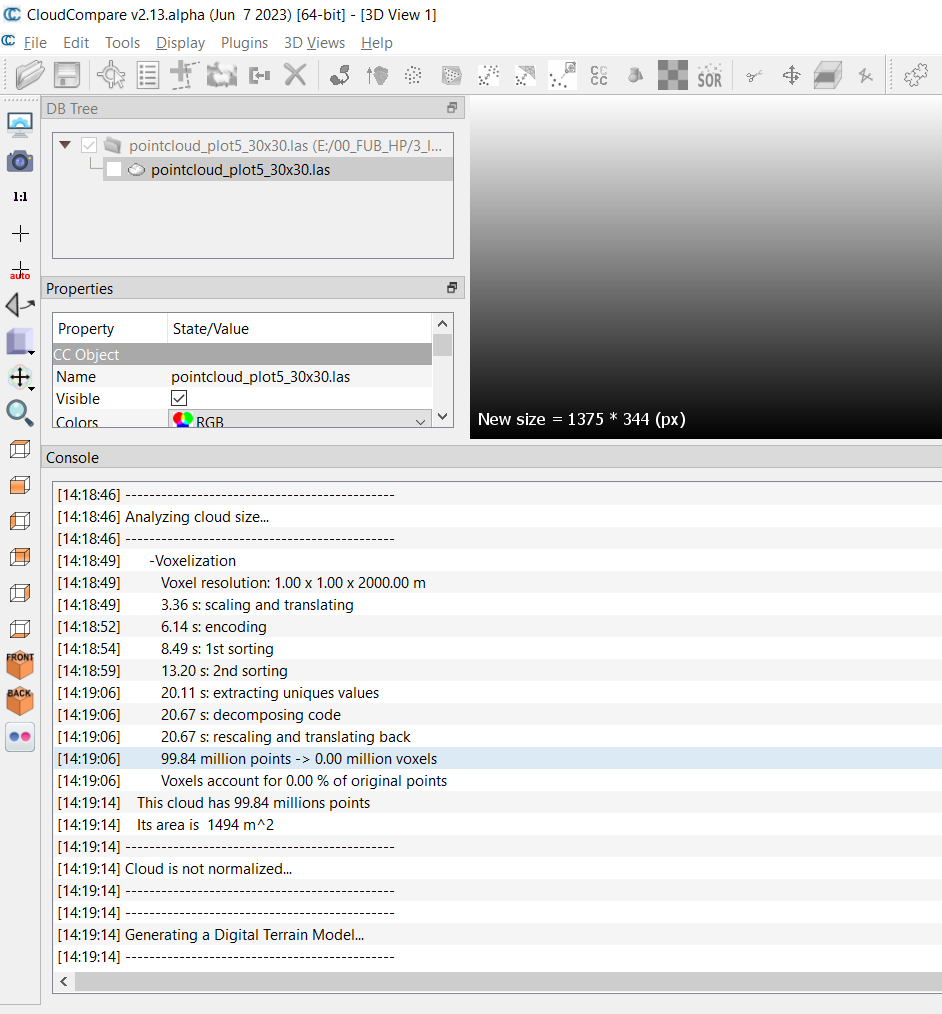
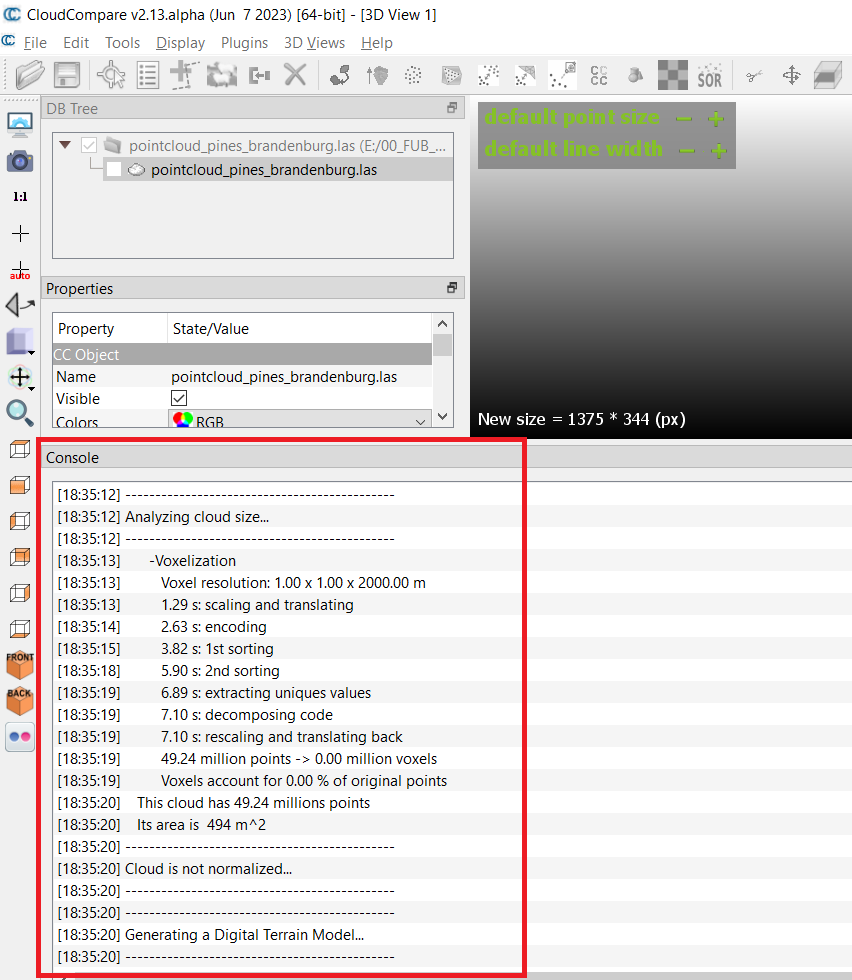
updates

Changed region(s): [[0.0, 0.0, 1.0, 1.0]]

diff --git a/1_3Dfin_cloudcompare2.md b/1_3Dfin_cloudcompare2.md
@@ -1,0 +1,158 @@
+
+# Getting started with 3D fin to extract individual tree information from terrestrial point clouds
+
+### Objectives of tutorial
+
+- to understand the basic concepts of the 3D Fin workflow
+- learn how to apply the 3D Fin software to extract individual trees from a 3D point-cloud
+- ...
+
+### Requirements to run this tutorial
+To run this tutorial you will need a version of CloudCompare with the 3D Fin plug-in installed. You can download a zip-file containing a running version for Windows here:
+
+You will furthermore need an example dataset. In our case we will use a terrestrial laserscan from a pine stand (*Pinus sylvestris*) in a forest in Brandenburg, Germany.
+
+The dataset can be downloaded here:
+
+
+
+
+### Starting 3D-Fin in CloudCompare
+
+**Download the zip-folder, unpack it onto a folder** on your computer which you are able to find again and then **run CloudCompare by double-blicking the "CloudCompare.exe"** in the main file folder.
+
+This should lead to a situation as shown in Figure 1.
+
+![Figure 1: CloudCompare with 3D-fin extension installed](Fig_01.png)
+
+Your actual view is likely to appear a bit different since you might have other and additional toolbars activated. You might actually have to press on a little arrow-button on the top right of the menu bar to be able to see the relevant icons which are marked in Figure 1.
+
+We are now ready to open our example dataset and start working with the 3D Fin plugin. To open the dataset, we select **File => Open**  (Figure 2) and then in the appearing new window browse to the ***pointcloud_plot5_30x30.las*** file, select it and press **"Open"**.
+
+![Figure 2: Open the example dataset](Fig_02.png)
+
+In the then appearing dialogue we use the standard settings to open the file. That is, in the first window we press **"Apply All"** (Figure 3) and in the second window **"Yes to All"** (Figure 4).
+
+![Figure 3: The open dataset dialogue in CloudCompare 1/2](Fig_03.png)
+![Figure 4: The open dataset dialogue in CloudCompare 22](Fig_04.png)
+
+This should result in a situation as shown in Figure 5
+
+![Figure 5: CloudCompare view after loading the example dataset](Fig_05.png)
+
+If you want to adjust some basic visualization settings of the point cloud you can get some first indications on how to achieve this in the following tutorial:
+
+[Basic CloudCompare tutorial](https://github.com/fabianfassnacht/CloudCompare_Basics_1/blob/main/1_cloud_compare_basics.md)
+
+However, given that our example dataset comes with some RGB information, the standard visualization setting should already be quite acceptable.
+
+We will now start the 3D Fin plugin by first selecting the loaded point-cloud in the DB Tree window (marked with 1 in Figure 5) and then click the drop-down menu "Plugins" and select "3D Forest Inventories" (marked with 2 in Figure 5).
+
+This will open the 3D Fin plugin and its main window as shown in Figure 6.
+
+### Running the 3D Fin workflow in the Basic mode
+
+![Figure 6: The 3D Fin user interface in CloudCompare](Fig_06.png)
+
+In the Basic Mode only a few parameters have to be defined by the user. These include:
+
+- **Normalization of the point cloud** (marked with 1 in Fig. 6): If the input dataset contains a normalized point cloud (z-values of the 3D points represent the height above ground) you can uncheck this box. If your point cloud is not normalized (z-values of your 3D points represent heights above sea-level) this box should be checked and 3D Fin will automatically calculate a digital terrain model and subtract the terrain model value from the z-value of each point.
+- **Clean noise on dtm** (marked with 2 in Fig. 6): In some point clouds (particularly those created using photogrammetric approaches) a certain level of noise can be expected. In such cases, some points may be located below the interpolated digital terrain model (DTM). By checking this box, you tell 3D Fin that it is ok to filter out such points during the calculation of the DTM.
+- **Format of output tabular data** (marked with 3 in Fig. 6): The 3D fin processing chain will create some tables including detailed information on the identified tree stems as key outputs. Here you can define whether you prefer to have these tables saved as CSV of Excel file.
+- **Strippe Upper Limit** (marked with 4 in Fig. 6): As further explained below, the first step in the 3D Fin work-flow bases on the identification of straight tree segments in the lower part of the forest stand. The idea for the two stripe parameters is to define a height range in which the trees are expected to be comparably straight and clearly visible. That is, understory elements (shrubs, herbs, grasses) should in ideal case be comparably sparse. You can define the upper and lower limit of this range depending on the situation of the understory and the trees in your forest. A graphical example is provided to further clarify the idea (see graph marked with 4a in Fig. 6)
+- **Strippe Lower Limit** (marked with 4 in Fig. 6): See Strippe Upper Limit.
+- **Pruning Intensity** (marked with 5 in Fig. 6): During this step, points that are close to the tree trunk segments but belong to other tree elements (such as branches and leaves) are iteratively deleted. Depending on how many of such other elements exist, you can adjust the numbers of iterations and thereby the intensity with which the algorithms tries to identify and drop such features.
+- **Output Directory** (marked with 6 in Fig. 6): Define the output directory to where you want to save the outputs created by the 3D Fin work-flow.
+
+We will now run the 3D Fin workflow for our dataset. For the general settings we **check** the "**Normalize Point Cloud**" box since our example dataset does not contain a normalized point cloud.
+
+Because our dataset was calculated with a terrestrial laserscanner, we do not expect a lot of noise and hence leave the "**Clean noise on dtm**" **unchecked**.
+
+As **tabular output data**, we select "**XLSX**".
+
+Exploring our dataset visually, we can that we do not have a pronounced understory and that most of the tree trunks have comparably sparse branching structures in the lower parts of the tree trunk. Since some smaller understory elements exist with a height of more or less 1 m, we can for example set the **lower and higher stripe limit to 1.5 and 4.5 m, respectively**.
+
+For the **pruning intensity** we keep the original setting of **2 iterations** which means that we expect low to intermediate branching (which matches our visual impression).
+
+We finally define an "**output directory**" and then press "**Compute**" to run the 3D Fin workflow. 
+
+You will be continuously updated on the progress in the console window at the bottom of the CloudCompare user interface (marked in Fig. 7).
+
+![Figure 7: Progress of the 3DFin work-flow in the console window](Fig_07.png)
+
+The duration to run the whole process of identifying and segmenting the tree trunks can take anything from a few seconds up to several minutes or even hours depending on the size of the applied dataset, the user-defined settings and the applied hardware. With the example dataset used in this Tutorial the processing takes approximately 10-20 min with a laptop with good (but not top-notch) performance (for example with my laptop with an i7 CPU and 16 GB RAM it takes around 14 minutes).
+
+### Understanding the 3D Fin workflow outputs
+
+Once the work-flow as terminated, you will see some new outputs in the CloudCompare DB tree window as shown in Figure 8 (marked with 1). By default, three of the in total 7 output files are visualized in the main visualization window of CloudCompare (Fig. 8 - marked with 2). These include the fitted tree circular tree rings, the diameter at breast height and the tree height.
+
+![Figure 8: Outputs of the 3DFin work-flow](Fig_08.png)
+
+In the following we will have a look at each of the outputs individually which is helpful to better understand how the 3DFin work-flow works. 
+
+The first step in work-flow is to normalize the pointcloud and derive a digital terrain model (DTM). Figure 9 shows the visualization of the DTM of the example dataset as represented by a point cloud of the ground points.
+
+![Figure 9: DTM derived in the 3DFin work-flow](Fig_9_dtm.png)
+
+In figure 10, we can see the identified tree segments from the second step of the 3DFin work-flow during which point-cloud patterns showing a vertical continuity are identified in the user-defined height range (see stripe range setting above). In our case, all of these tree segments will be displayed for the height between 1.5 m and 4.5 m.
+
+![Figure 10: Tree segments identified by the 3DFin workflow](Fig_10_stem_segments.png)
+
+As next step in the workflow an axis is fitted through each of the tree segments shown in Figure 10. These axes are then used as orientation for the circle-fitting algorithm. That is, along this axes, the algorithm will search for circular shapes, representing points reflected by the tree stem, within a circular (optionally user-defined) buffer around the axis.  This step will repeated in regular (optionally user-defined) height intervals. The axes for our example dataset are shown in Figure 11 and the respective circle fitting output is shown in Figure 12.
+
+![Figure 11: Axes fitted from the tree stem segments](Fig_11_axes.png)
+
+
+The axes (in Figure 11) are color-coded according to their tilting angle and you can see that axes that show a somewhat unexpected orientation (that is, deviating notably from the expected vertical orientation of a tree stem) are shown in red. This is not necessarily an indicator for wrongly identfied tree stems as trees sometimes are leaning but it might be a good idea to visually re-check such trees.
+
+![Figure 12: Circles fitted around the expected tree trunk as guided by the axes shown in Fig. 11](Fig_12_fitted_sections.png)
+
+Similarly, fitted circles that show unexpected dimensions (for example a notably larger radius than the circle below) are displayed in red. In this case, most of the time the problematic circles should not be considered during subsequent processing step since it is actually quite rare that a tree will increase its diameter (notably) with height. This circle fitting quality information is also stored in the tabular output data that we will discuss further below in the Tutorial.
+
+![Figure 13: Distance axes](Fig_13_distance_axis.png)
+
+In Figure 13 you can see the original point cloud using the distance to the stem axes (as shown in Figure 11) as color-coding. In this example this means that points shown in blue are very close to the stem axes while points shown in red are more distant from the stem axes. This is a quite helpful illustration to check how successful the work-flow was in correctly identifying points belonging to tree trunks. In our example, the workflow has performed very well and only a few trunks on the edge of the plot were not detected and most of these trunks seem to be incomplete due to the edge-effects in the pointcloud.
+
+In Figure 14 the height of each detected tree is displayed. The height is defined as the height of the highest non-isolated point in a circular region around the axes (Figure 11).
+
+![Figure 14: Tree height](Fig_14_height.png)
+
+Finally, in Figure 15, the diameter at breast height (DBH) of each tree is shown. The diameter at breast height is interpolated from the diameters of the fitted circles (Figure 12) above and below the height of 1.3 m for the 1.3 m height position where the DBH is typically measured in the field. In case there are no high-quality fitted circles available within a certain range above and below the 1.3 m position, the workflow will report a "non-reliable" instead of a diameter estimate.
+
+![Figure 15: Tree DBH](Fig_15_tree_locationspng.png)
+
+If you want to save the current state in Cloud Compare you have the option to save it into a "Cloud Compare Entities" binary file by selecting all the files in the DB Tree window and then select "File -> Save" (Fig. 16). Select "Cloud Compare Entities" as file format and then browse to a folder where you want to save the project and click "Save". You should now be able to re-load your current state with all files the next time you open CloudCompare by simply selecting "File -> Open".
+
+![Figure 16: Tree DBH](Fig_16_save_cc.png)
+
+
+We have now completed the basic 3DFin workflow in CloudCompare and will have a closer look at the tabular output data created by the workflow. This tabular output data is the main output which you will most likely want to use as inputs to additional processing-algorithms or as final results.
+
+### Tabular output data
+
+As first step, browse to the output folder which you defined in CloudCompare before starting the computation of the 3DFin workflow. Then open the Excel-File that was created as output of the workflow. You should see a situation as shown in Figure 17.
+
+![Figure 17: Output Excel file](Fig_17_excel1.png)
+
+As you can see there are in total 9 separate sheets (marked with 1 in Figure 17) that contain all relevant results created by the 3DFin work-flow. In the following we will briefly explain the meaning of each sheet.
+
+*Plot Metrics*
+On the first sheet called "Plot Metrics" you find the total height (TH), the diameter at breast height (DBH) as well as the x-position (X) and y-position (Y) of each tree (T) identified in the point cloud (marked with 2 and 3 in Figure 17). In our example 30 trees were identified
+
+*Diameters*
+In the diameters sheet you can find diameter of all stem section (columns) of all trees (rows). The number of stem sections varies based on the height of the trees and you will see that typically all trees will have several fields with 0 diameter in some higher stem section columns in the table.
+
+*X*
+The X sheet contains the x-coordinates of the center points of all stem sections (columns) of all trees (rows) 
+
+*Y*
+The Y sheet contains the y-coordinates of the center points of all stem sections (columns) of all trees (rows) 
+
+*Section*
+The Sections sheet contains heights of all stem section segments. These values depend on the user defined lowest section height and interval.
+
+*Quality sheets*
+The following four sheets contain information on the quality of each stem section. The first of the four quality sheets named *Q(Overall Quality 0-1)* is a binary summary of the other three quality sheet named *Q1(Outlier Probability)*, *Q2(Sector Occupancy)* and *Q3(Points Inner Circle)*
+
+
+### Additional options in the Advanced mode
